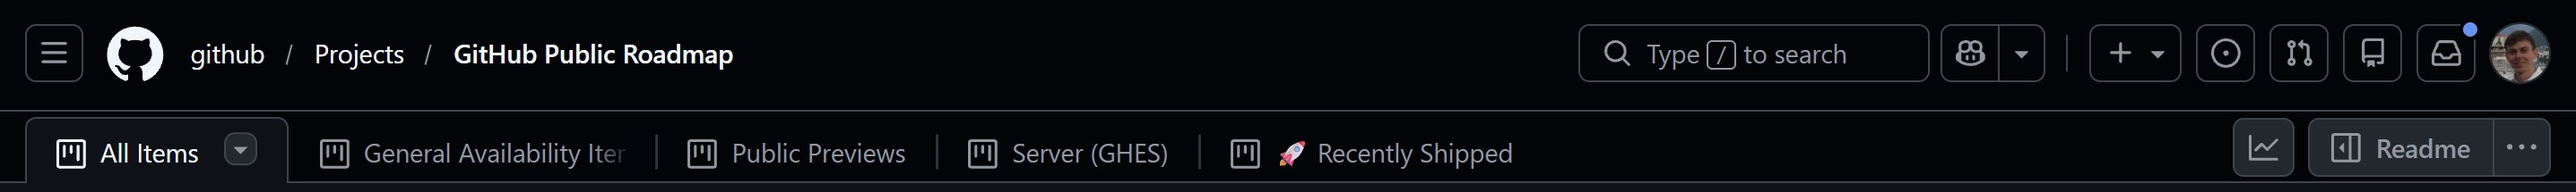
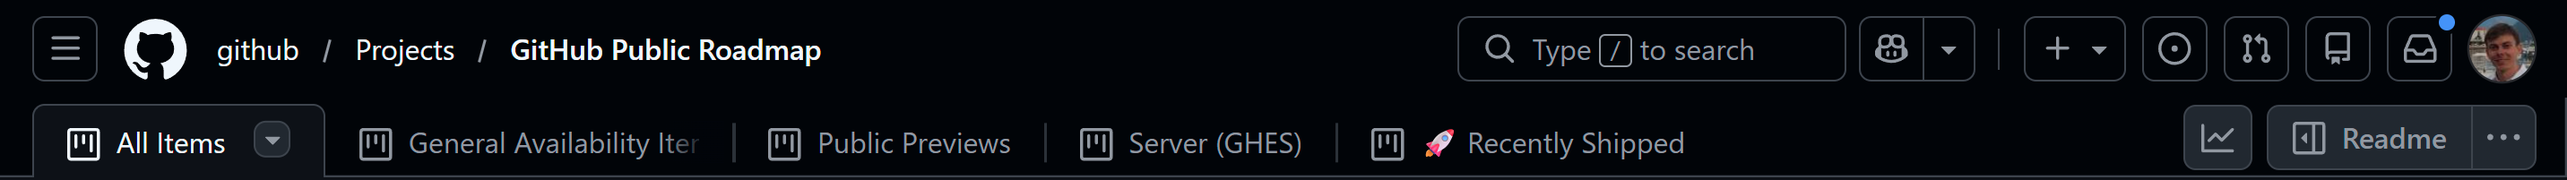
Update the compact header screenshot and description in the README

diff --git a/README.md b/README.md
@@ -35,8 +35,9 @@ The same compact header, and assignees show profile names instead of logins.
 - The project title is hidden: the breadcrumb at the top already shows it.
 - The view tabs move up into its place, and the action buttons sit on the same row, vertically centred.
 - A little breathing room (3 px) stays above the tabs.
-- The global GitHub header has 25% less vertical padding (12 px instead of 16 px).
-- Together this gives the board about 50 px more height.
+- The global GitHub header is 48 px tall instead of 64 px (8 px vertical padding instead of 16 px), and the line under it is gone, so it runs straight into the view tabs.
+- On board views the filter bar sits 8 px from the tabs and from the columns, and the side gutters around the board are 8 px instead of 16 px.
+- Together this gives the board about 77 px more height.
 
 **Before**
 
